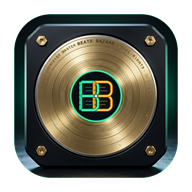
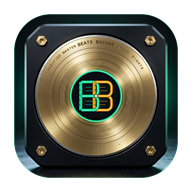
Eliminate 100% of old text using Cartesian pixel replacement across radius 257.5 to 315.0 and bust cache with v=4

diff --git a/src/components/Logo.tsx b/src/components/Logo.tsx
@@ -35,7 +35,7 @@ export function Logo({
         style={{ width: current.icon, height: current.icon }}
       >
         <img
-          src="/logo-plaque.png?v=3"
+          src="/logo-plaque.png?v=4"
           alt="Beats Bazaar Master Plaque"
           width={current.icon}
           height={current.icon}
